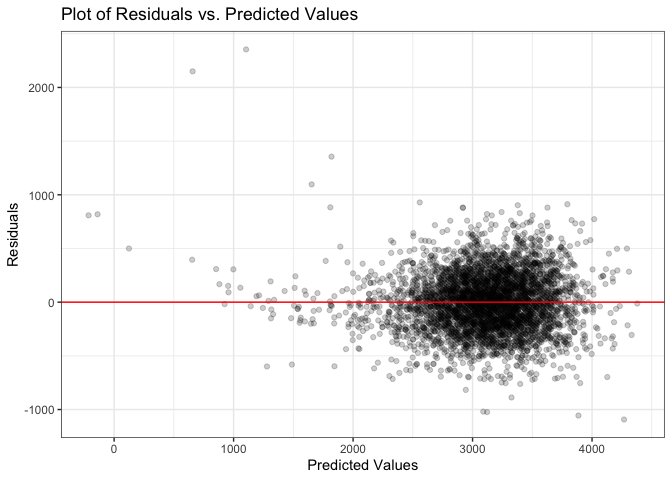
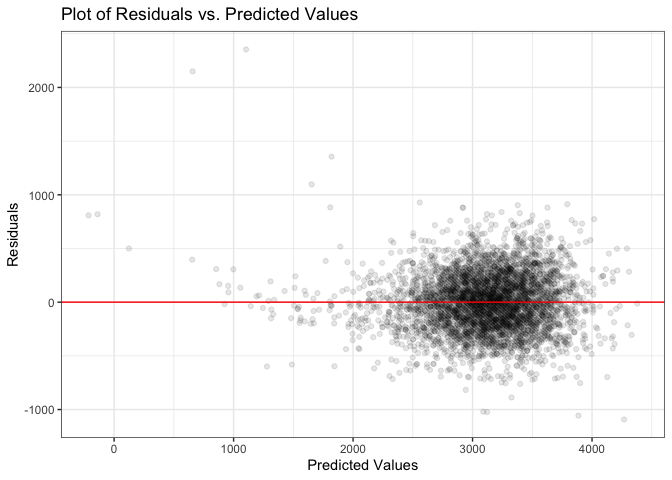
cross validation, compare rmse

diff --git a/p8105_hw6_yj2803.md b/p8105_hw6_yj2803.md
@@ -265,7 +265,7 @@ df_birthwt |>
   add_predictions(lm_birthwt) |> 
   add_residuals(lm_birthwt) |> 
   ggplot(aes(x = pred, y = resid)) +
-  geom_point(alpha = 0.2) +
+  geom_point(alpha = 0.1) +
   geom_hline(yintercept = 0, color = "red") +
   theme_bw() +
   labs(
@@ -278,5 +278,61 @@ df_birthwt |>
 ![](p8105_hw6_yj2803_files/figure-gfm/unnamed-chunk-8-1.png)<!-- -->
 
 We can see that the spread of the residuals are higher for the lower
-fitted values, but overall the points are scattered randomly around the
-residual = 0 line.
+fitted values, but overall (especially when the predicted values \>
+2000) the points are scattered randomly around the residual = 0 line.
+
+Now, I am going to compare my model to two others.  
+The predictors of the two other models are as follows:  
+`lm_1`: `blength`, `gaweeks`  
+`lm_2`: `bhead`, `blength`, `babysex`, and three-way interaction terms
+
+``` r
+# cross validation
+# train/test split
+cv_df =
+  df_birthwt |> 
+  crossv_mc(n = 100) |> 
+  mutate(
+    train = map(train, as_tibble),
+    test = map(test, as_tibble)
+  )
+
+# apply each model to all training datasets and evaluate on all testing datasets
+cv_results = 
+  cv_df |> 
+  mutate(
+    lm_final = map(train, \(df) lm(bwt ~ bhead + blength + mrace + delwt + gaweeks + smoken + ppbmi + babysex + parity + ppwt + fincome, data = df)),
+    lm_1 = map(train, \(df) lm(bwt ~ blength + gaweeks, data = df)),
+    lm_2 = map(train, \(df) lm(bwt ~ (bhead + blength + babysex) ^ 3, data = df))
+  ) |> 
+  mutate(
+    rmse_lm_final = map2_dbl(lm_final, test, \(mod, df) rmse(mod, df)),
+    rmse_lm_1 = map2_dbl(lm_1, test, \(mod, df) rmse(mod, df)),
+    rmse_lm_2 = map2_dbl(lm_2, test, \(mod, df) rmse(mod, df))
+  )
+
+# tidy rmse data and visualize the results
+cv_results |> 
+  select(starts_with("rmse")) |> 
+  pivot_longer(
+    everything(),
+    names_to = "model_type",
+    values_to = "rmse",
+    names_prefix = "rmse_"
+  ) |> 
+  ggplot(aes(x = model_type, y = rmse)) +
+  geom_violin() +
+  theme_bw() +
+  labs(
+    x = "Model Type",
+    y = "RMSE"
+  )
+```
+
+![](p8105_hw6_yj2803_files/figure-gfm/unnamed-chunk-9-1.png)<!-- -->
+
+I split the dataset into two and generated 100 test-training pairs.
+Then, each linear models were applied to these datasets and root mean
+squared errors (RMSEs) were computed for each model.  
+The plot shows the RMSE values for each model. It suggests that the
+final model fits better than the other two models.
